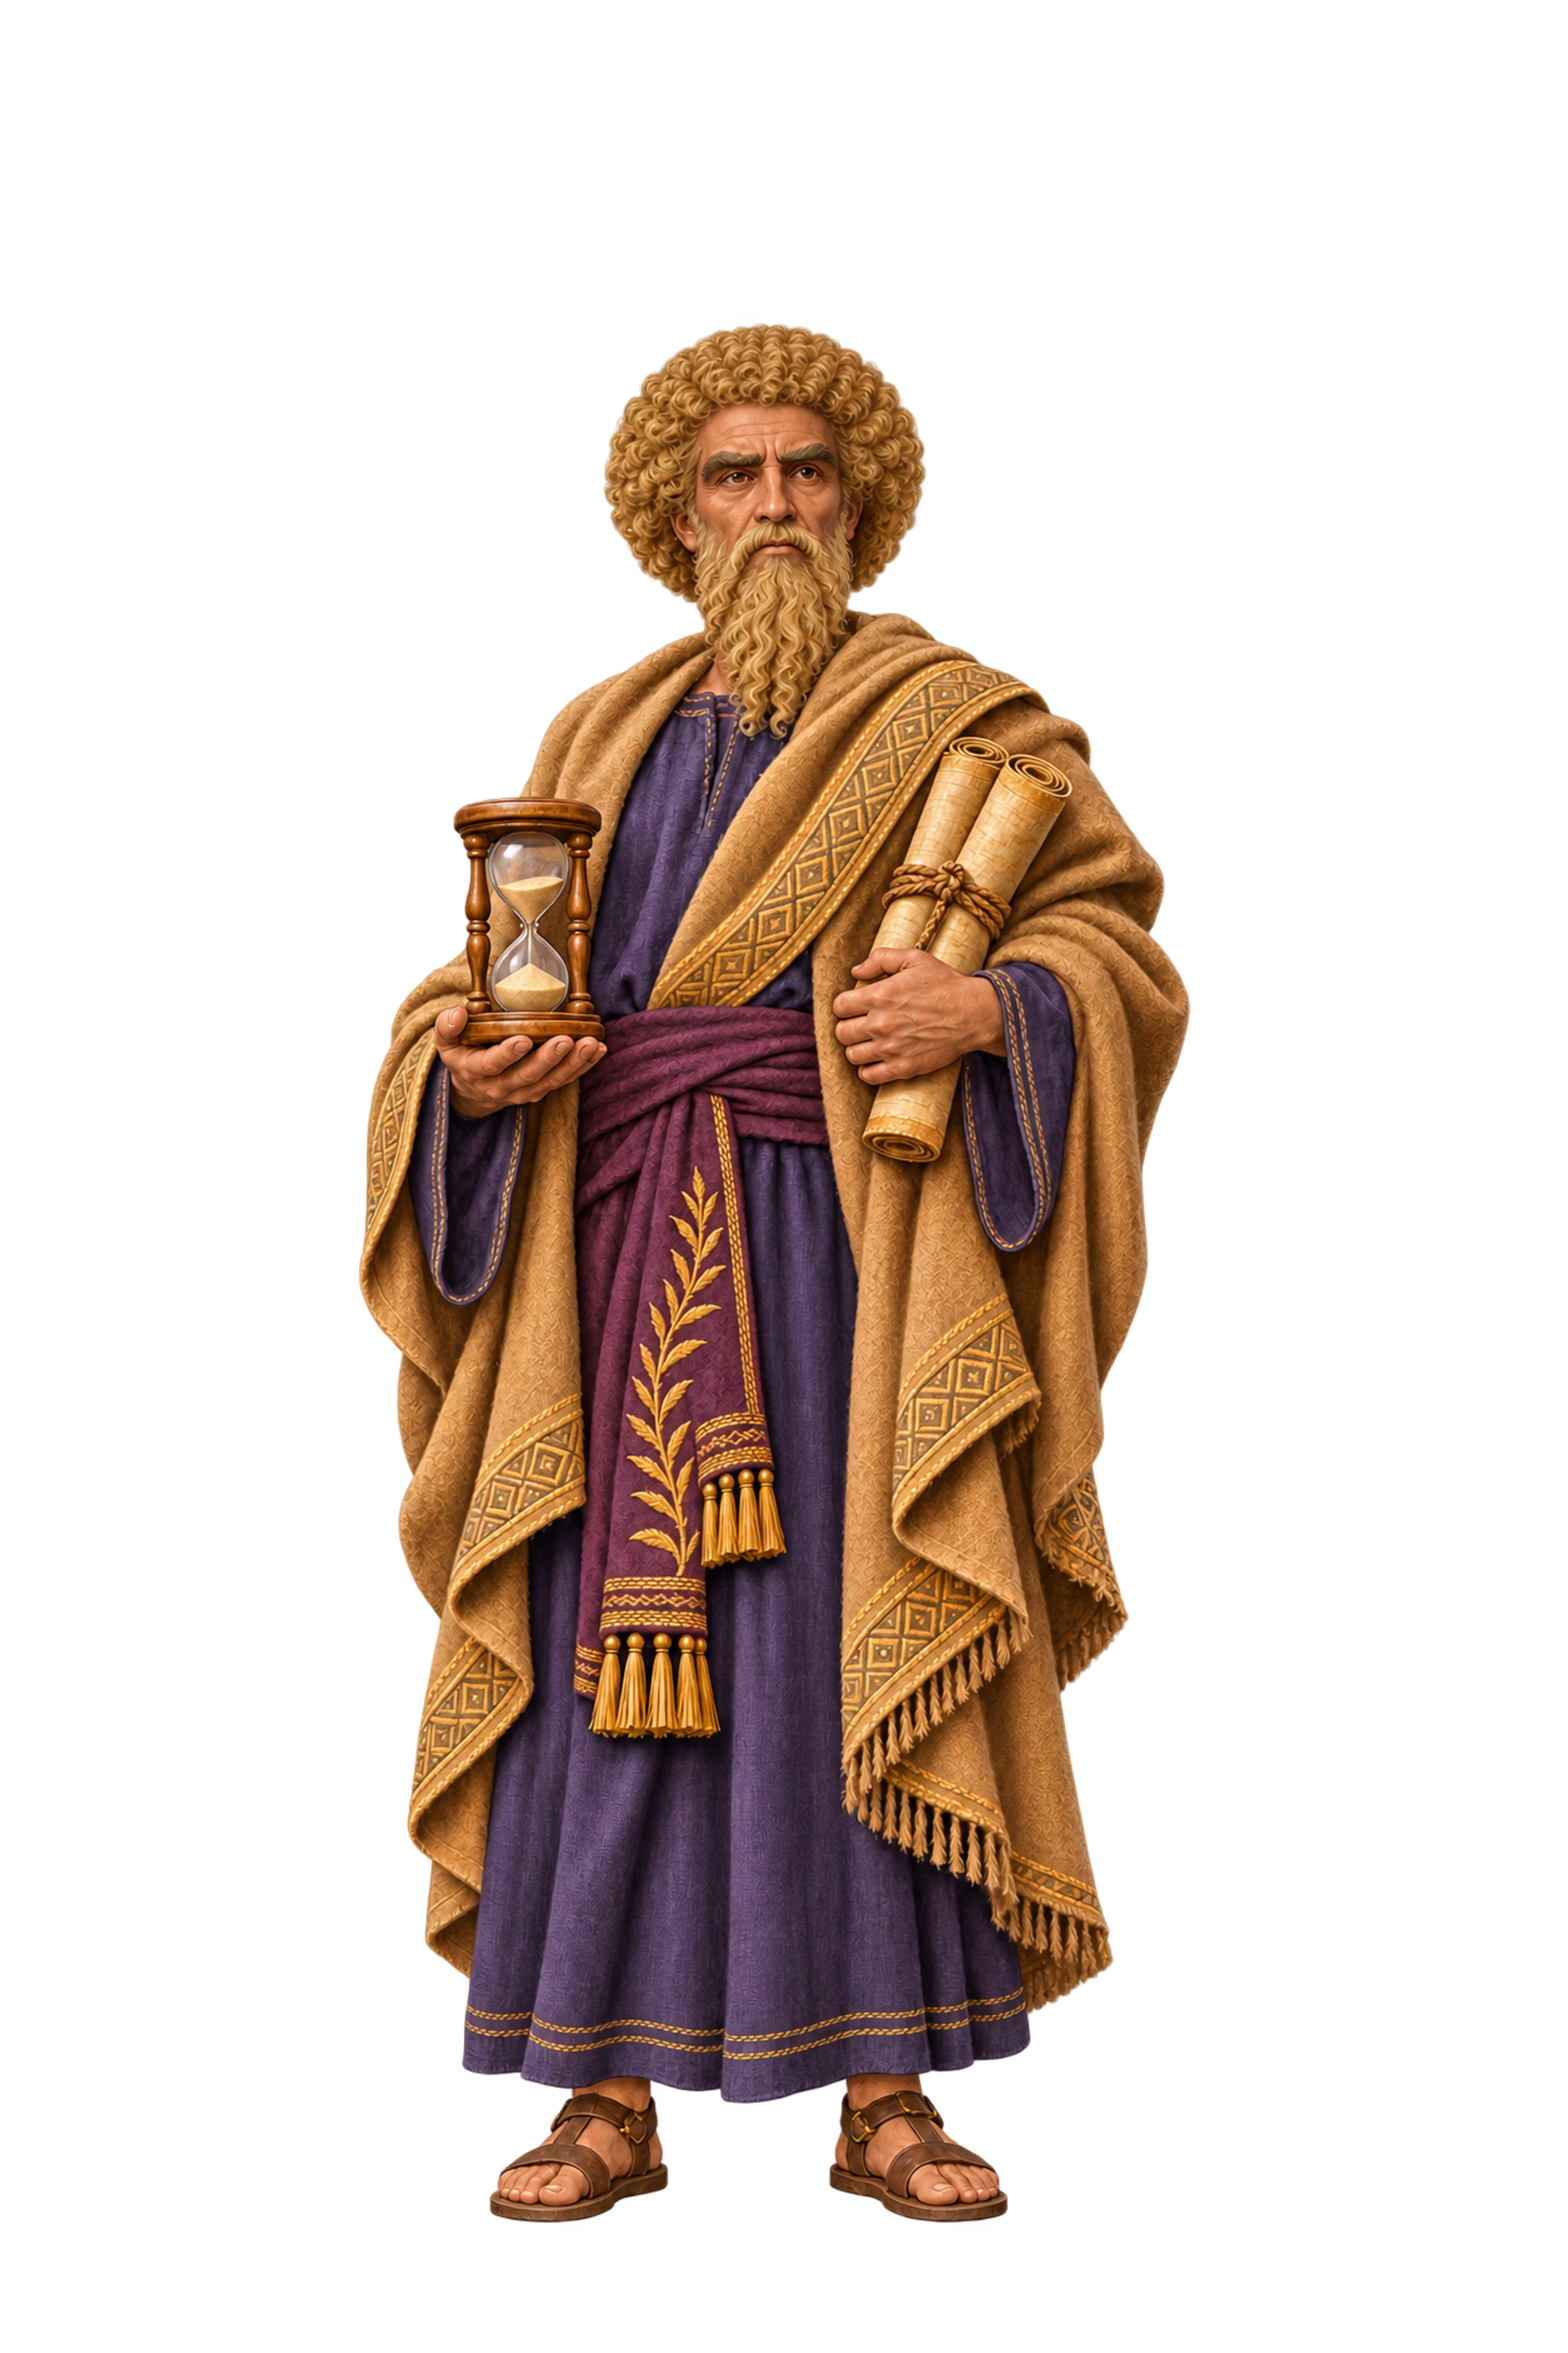
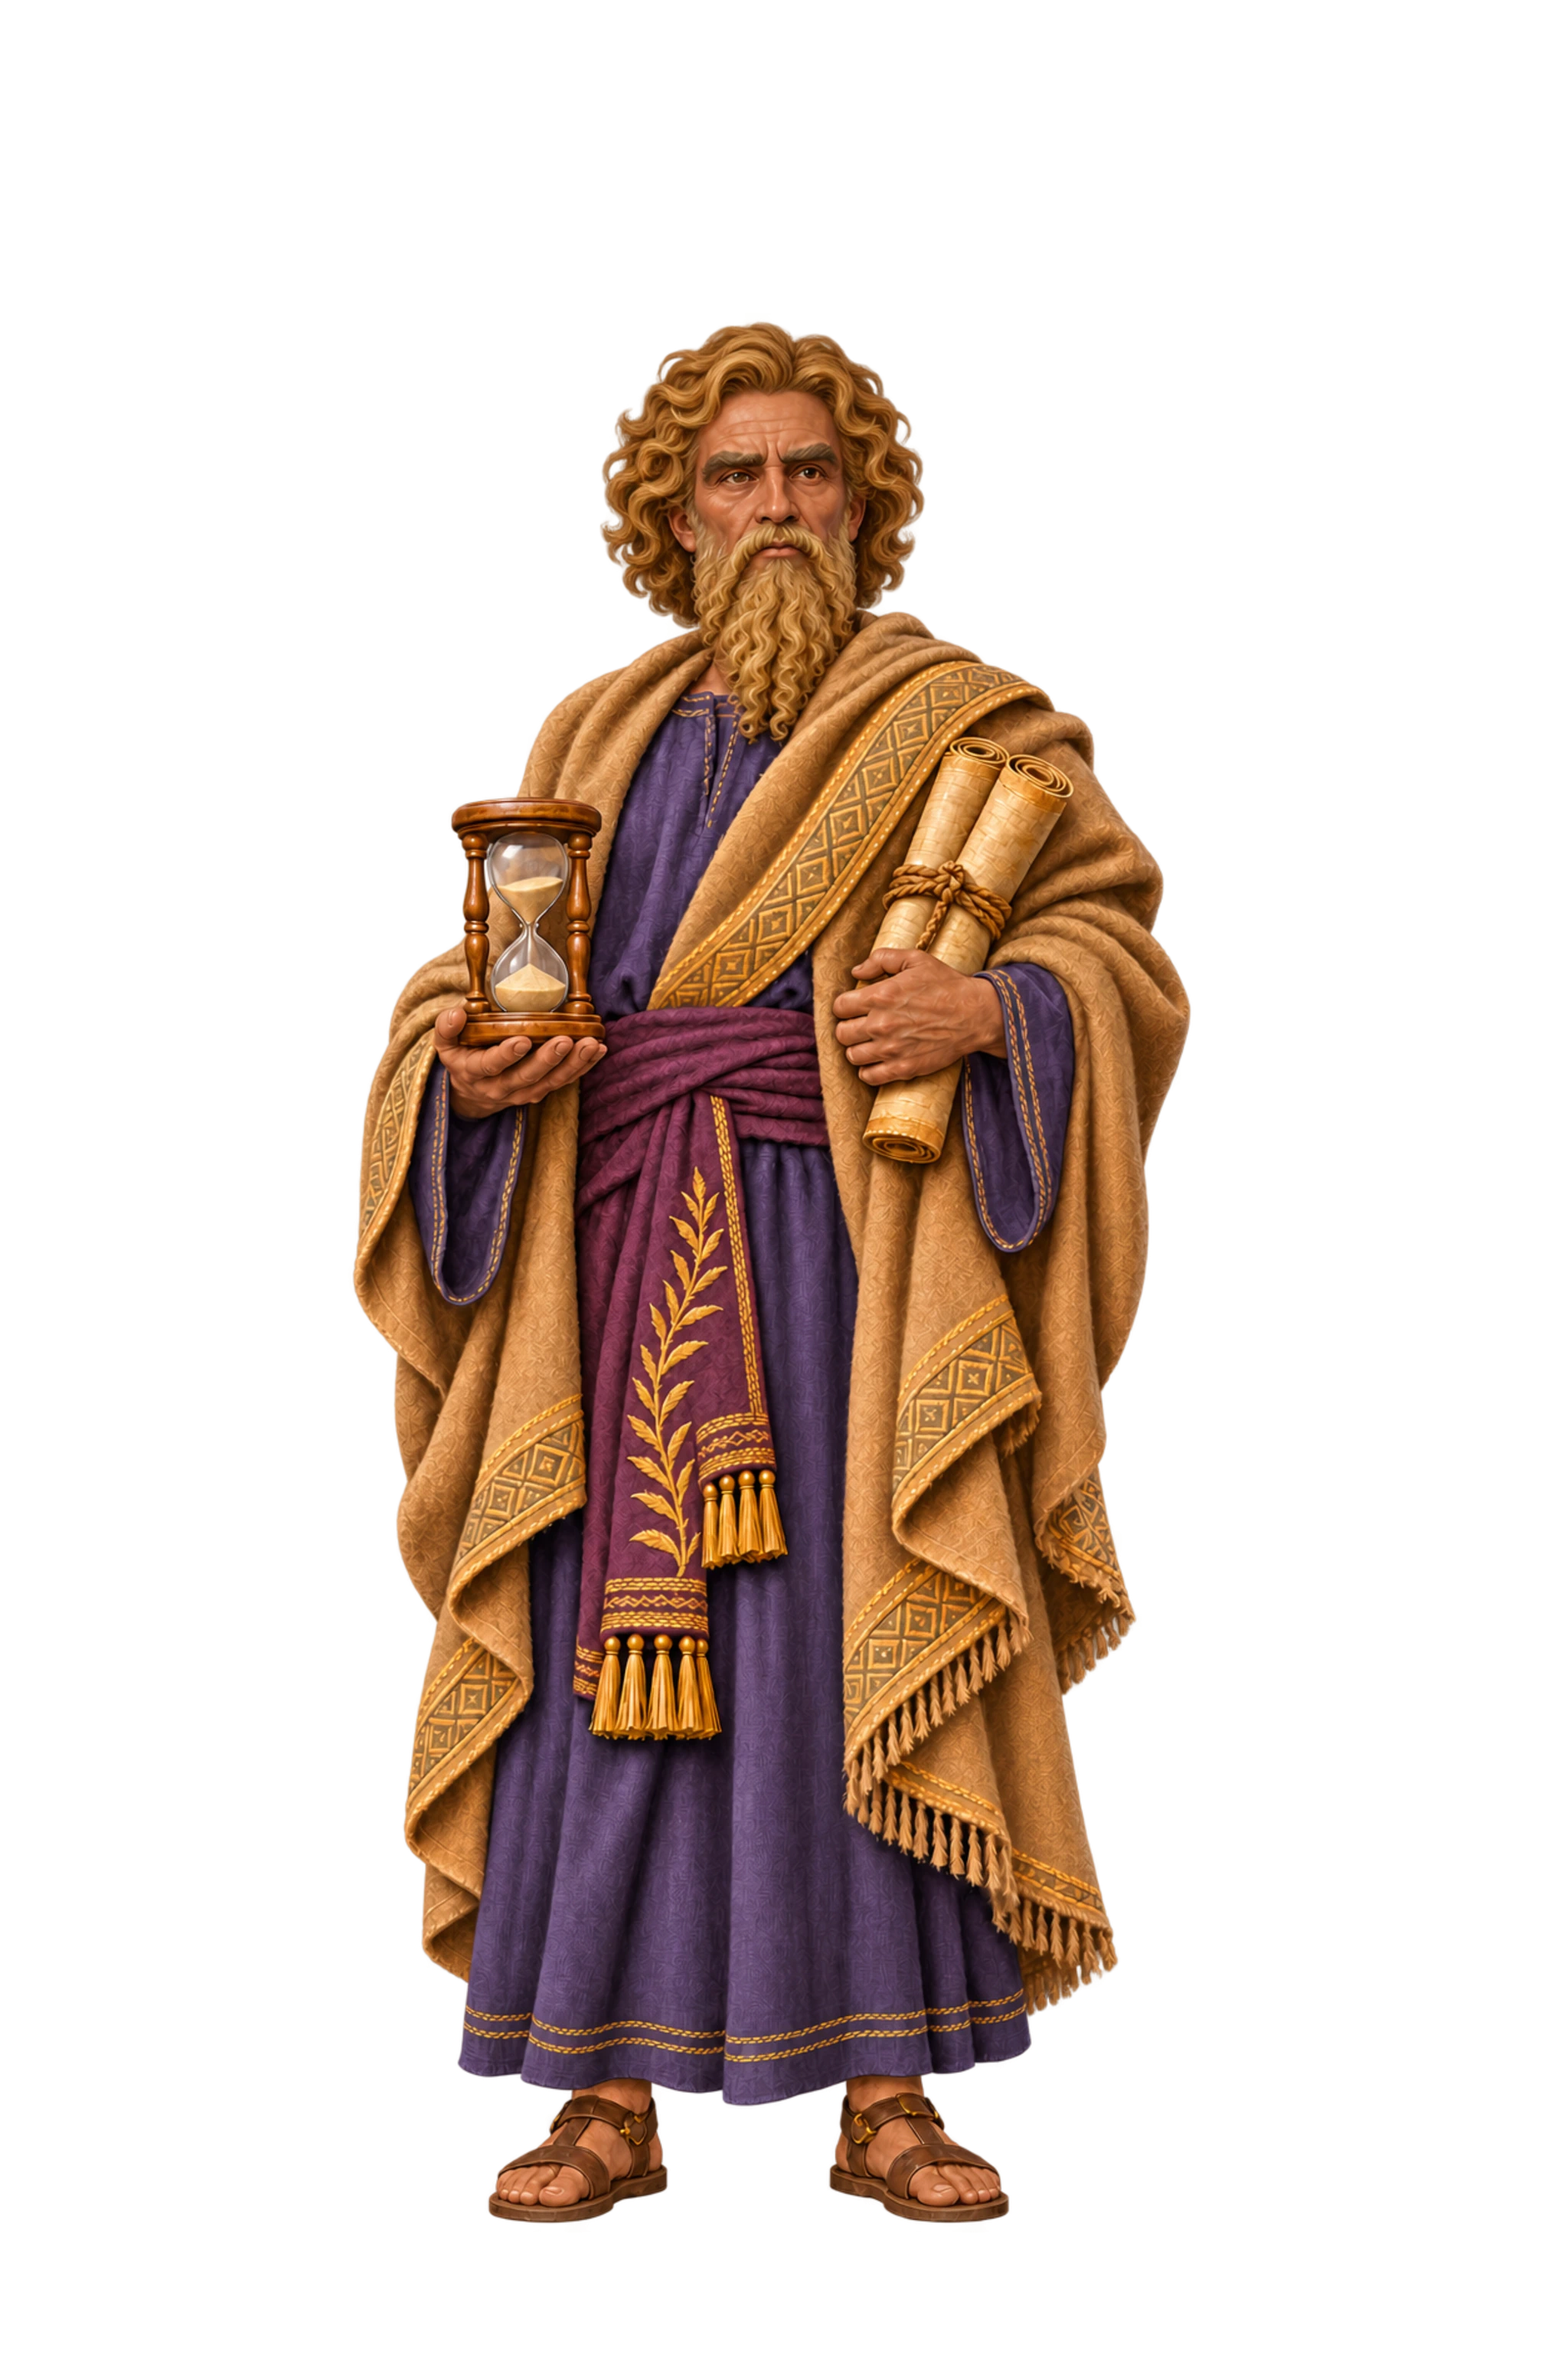
Aplica S09_v2 e S10_v2: tom de Obede-Edom (estilo 2) e do Pregador (estilo 3)
Claude-Session: https://claude.ai/code/session_01ShwRuBXYkz4meuq65H5Vn5

diff --git a/docs/skins/entregas/S10/PROMPTS.md b/docs/skins/entregas/S10/PROMPTS.md
@@ -292,3 +292,13 @@ Repaint ALL exposed skin consistently, including ears, neck, both hands, arms an
 
 KEEP this exact unique facial bone structure, apparent age, expression, body, pose, complete costume colors/design, prop counts, hand contacts, garment texture and premium painted2.5D brushwork. Same person; only skin pigment, hair color and hairstyle change. One complete1024x1536 portrait figure, feet/hands/props unclipped, true RGBA transparent background. No sheet, extra figure, haze, vignette, ground, text or watermark. Compact connected opaque hair edges. Do not add a scene or change the costume.
 ```
+
+# Revisão S10_v2
+
+Uma edição integrada para uma pintura. Image1: alvo exato da primeira entrega; Image2: referência de cor skin3 já aprovada(filhas de Zelofeade2), sem copiar rosto ou roupa.
+
+## epico_o_pregador · estilo3 · pintura corrigida
+
+```text
+Use case: identity-preserve / precise-object-edit. Image1 is the EXACT sprite to edit. Correct TWO catalog mismatches in STYLE3 only. 1) Repaint exposed skin to clearly MEDIUM WARM TAN skin3 (#CF9A6C family), about20-25percent deeper than the current light skin2-like complexion. Image2 is the APPROVED skin3 COLOR REFERENCE ONLY, never her face, sex, veil or clothes. 2) Replace the current dense rounded AFRO scalp silhouette with distinct LOOSE DEFINED CURLS in HONEY color: medium-length hanging soft spiral ringlets separated into larger locks, naturally framing the temples and reaching the upper neck, clearly NOT the tightly coiled voluminous circular afro of style1. Haircolor HONEY, a natural richer golden-brown honey, not pale straw blond. The long beard and moustache must be the SAME honey golden-brown family, retain their length and physical shape. Preserve his own elderly triangular face, wide forehead, close-set deep-set eyes, wrinkles and reflective expression. Preserve the solid supported hourglass, two tied scrolls, exactly two hands, camel mantle, indigo robe, plum sash and full pose. ALL exposed skin including face, ears, neck, two hands and feet must have the same new medium-tan pigment. Preserve the exact unique identity, age, eyes, face proportions, posture, physical objects, two connected hands/arms, garments, colors and every outfit detail. Preserve the premium PAINTED 2.5D style and neutral upper-left lighting. Full 1024x1536 complete-body transparent RGBA cutout, all feet and props intact. Exterior alpha ZERO; no backdrop, scenery, glow, bloom, haze, ground rectangle, writing, added person, third hand or disconnected wisps. Change skin pigment, never use an orange lighting wash or globally darken the clothes.
+```

diff --git a/docs/skins/entregas/S09/PROMPTS.md b/docs/skins/entregas/S09/PROMPTS.md
@@ -293,3 +293,13 @@ Repaint ALL exposed skin consistently, including ears, neck, both hands, arms an
 
 KEEP this exact unique facial bone structure, apparent age, expression, body, pose, complete costume colors/design, prop counts, hand contacts, garment texture and premium painted2.5D brushwork. Same person; only skin pigment, hair color and hairstyle change. One complete1024x1536 portrait figure, feet/hands/props unclipped, true RGBA transparent background. No sheet, extra figure, haze, vignette, ground, text or watermark. Compact connected opaque hair edges. Do not add a scene or change the costume.
 ```
+
+# Revisão S09_v2
+
+Uma edição integrada para uma pintura. Image1: alvo exato da primeira entrega; Image2: referência de cor skin3 já aprovada(filhas de Zelofeade2), sem copiar rosto ou roupa.
+
+## raro_obede_edom · estilo2 · pintura corrigida
+
+```text
+Use case: identity-preserve / precise-object-edit. Image1 is the EXACT sprite to edit. Make a SUBSTANTIAL complexion correction, not a subtle tint: this pale-looking peach skin was REJECTED as almost identical to his very fair style1. Repaint ALL exposed skin as a clearly MEDIUM WARM TAN skin3 (#CF9A6C pigment family), about25percent deeper in actual skin midtones. Image2 is an APPROVED skin3 COLOR REFERENCE ONLY: borrow ONLY its warm medium-brown tan complexion family, not her face, sex, veil or outfit. The result should be a CLEAR medium step between very fair skin1 and deep skin6. Skin must look tanned brown, not fair pink/peach or bleached honey. Preserve this exact friendly short square face, long STRAIGHT HONEY scalp hair and honey beard, bronze key and open palm. Do not shorten the hair or change its color. ALL exposed skin including face, ears, neck, two hands and feet must have the same new medium-tan pigment. Preserve the exact unique identity, age, eyes, face proportions, posture, physical objects, two connected hands/arms, garments, colors and every outfit detail. Preserve the premium PAINTED 2.5D style and neutral upper-left lighting. Full 1024x1536 complete-body transparent RGBA cutout, all feet and props intact. Exterior alpha ZERO; no backdrop, scenery, glow, bloom, haze, ground rectangle, writing, added person, third hand or disconnected wisps. Change skin pigment, never use an orange lighting wash or globally darken the clothes.
+```

diff --git a/docs/skins/entregas/S10/LEIA-ME.md b/docs/skins/entregas/S10/LEIA-ME.md
@@ -1,4 +1,4 @@
-# Jornada Bíblica · S10
+# Jornada Bíblica · S10_v2
 
 6 skins completas × 3 estilos = **18 pinturas** no 2.5D pintado aprovado. Fonte: branch claude/kind-bell-fuk4e4, commit 59e7861. Briefing: LOTES.md; contrato: TEMPORADA-1-EXODO.md §2.
 
@@ -38,3 +38,11 @@ Cada personagem tem somente a apresentação do próprio sexo, na raiz do seu ID
 Conferir ZIP e .zip.sha256 de cada lote, somas, arte, diferenças de pele, rostos, mãos e objetos. Aplicar pelo fluxo oficial scripts/skins-add-lot.mjs S10 e scripts/gen-skin-art.mjs. Rodar unitários, SQL, skins-audit, marco1/journey/lobby/fixes e Supabase local oficial limpo. Atualizar plano/STATUS/LOTES/PARA-O-CODEX e publicar no mesmo branch com commit e resultado completo.
 
 O Codex alterou somente arte e arquivos de entrega locais, sem migração ou banco. A integração oficial fica com o Claude. O usuário autorizou continuar a produção de arte em21/11/2026. Revisão, integração e testes oficiais com o Claude continuam necessários. Até dois lotes nesta entrega: S09/S10.
+
+## Revisão solicitada pelo Claude em24/11/2026
+
+Pregador3: tom3 médio, cachos definidos e soltos, sem volume afro; cabelo e barba na mesma família mel.
+
+Somente epico_o_pregador estilo3. Os outros46assets, incluindo6fichas e6ícones, permanecem byte a byte iguais à primeira entrega. Demais17pinturas preservadas.
+
+Sem mudança emIDs,catálogo,sexo,regras,âncoras,app ou banco. As capturas320/412 da skin corrigida e as galerias foram atualizadas; capturas das outras skins preservadas. Comparacao_S10_v2.png mostra antes/depois no mesmo recorte. Uma nova edição ImageGen nesta revisão, somada aos24registros anteriores; PROMPTS traz25registros. VALIDACAO.json registra hashes antigos/novos dos2assets alterados. O ZIP original permanece imutável. Enviar apenas este pacote completo v2 e seu .zip.sha256, sem reenvio do original.

diff --git a/docs/skins/entregas/S09/LEIA-ME.md b/docs/skins/entregas/S09/LEIA-ME.md
@@ -1,4 +1,4 @@
-# Jornada Bíblica · S09
+# Jornada Bíblica · S09_v2
 
 6 skins completas × 3 estilos = **18 pinturas** no 2.5D pintado aprovado. Fonte: branch claude/kind-bell-fuk4e4, commit 59e7861. Briefing: LOTES.md; contrato: TEMPORADA-1-EXODO.md §2.
 
@@ -38,3 +38,11 @@ Cada personagem tem somente a apresentação do próprio sexo, na raiz do seu ID
 Conferir ZIP e .zip.sha256 de cada lote, somas, arte, diferenças de pele, rostos, mãos e objetos. Aplicar pelo fluxo oficial scripts/skins-add-lot.mjs S09 e scripts/gen-skin-art.mjs. Rodar unitários, SQL, skins-audit, marco1/journey/lobby/fixes e Supabase local oficial limpo. Atualizar plano/STATUS/LOTES/PARA-O-CODEX e publicar no mesmo branch com commit e resultado completo.
 
 O Codex alterou somente arte e arquivos de entrega locais, sem migração ou banco. A integração oficial fica com o Claude. O usuário autorizou continuar a produção de arte em21/11/2026. Revisão, integração e testes oficiais com o Claude continuam necessários. Até dois lotes nesta entrega: S09/S10.
+
+## Revisão solicitada pelo Claude em24/11/2026
+
+Obede-Edom2: tom3 médio claramente mais profundo que o estilo1 muito claro; longo liso mel preservado.
+
+Somente raro_obede_edom estilo2. Os outros46assets, incluindo6fichas e6ícones, permanecem byte a byte iguais à primeira entrega. Demais17pinturas preservadas.
+
+Sem mudança emIDs,catálogo,sexo,regras,âncoras,app ou banco. As capturas320/412 da skin corrigida e as galerias foram atualizadas; capturas das outras skins preservadas. Comparacao_S09_v2.png mostra antes/depois no mesmo recorte. Uma nova edição ImageGen nesta revisão, somada aos24registros anteriores; PROMPTS traz25registros. VALIDACAO.json registra hashes antigos/novos dos2assets alterados. O ZIP original permanece imutável. Enviar apenas este pacote completo v2 e seu .zip.sha256, sem reenvio do original.

diff --git a/docs/skins/PARA-O-CODEX.md b/docs/skins/PARA-O-CODEX.md
@@ -619,3 +619,22 @@ S07/S08 ainda não foram entregues.
 - **S10_v2, `epico_o_pregador` estilo-3** (tom 3, cacheado mel): está quase idêntico ao estilo-1 (tom 2, crespo louro), com a mesma pele e o mesmo volume afro. Pintar a pele em tom 3 visivelmente médio e o cabelo com cachos definidos e soltos, não crespo volumoso, em mel, com a barba da mesma cor. Comparação em `docs/skins/entregas/S10/Tons_a_corrigir.png`.
 
 Mantenha rosto, traje, objetos, IDs e âncoras. Mande os pacotes S09 e S10 completos com os SHA-256 atualizados, sem migração.
+
+### 29.1 S09_v2 e S10_v2: correções aprovadas (24/11/2026)
+
+**Ciclo base de S09/S10 fechado e verde (`dcdd3a5`):**
+- 138 testes unitários, 592 verificações SQL e auditoria com as 145 skins pintadas.
+- Fluxos marco1, journey, lobby e fixes.
+- 577 verificações no Supabase local, incluindo as compras simultâneas com saldo final 0.
+
+**S09_v2**
+- O ZIP de 19.929.927 bytes confere com o `.zip.sha256` (`b3072d85…`) e as 69 somas conferem.
+- Mudou só o estilo-2 de Obede-Edom (base e @2x), agora em tom 3 médio, entre o estilo-1 claro e o estilo-3 escuro.
+
+**S10_v2**
+- O ZIP de 19.455.304 bytes confere com o `.zip.sha256` (`aac1e7e3…`) e as 69 somas conferem.
+- Mudou só o estilo-3 do Pregador (base e @2x): pele em tom 3, cachos soltos e definidos em mel, já distinto do crespo louro do estilo-1.
+
+Os outros 46 arquivos de cada pacote são idênticos aos anteriores, incluindo fichas e ícones. Integração sem migração nem mudança de catálogo, fichas ou regras.
+
+**S09/S10 encerrados. Próximo: S11 e S12.**
